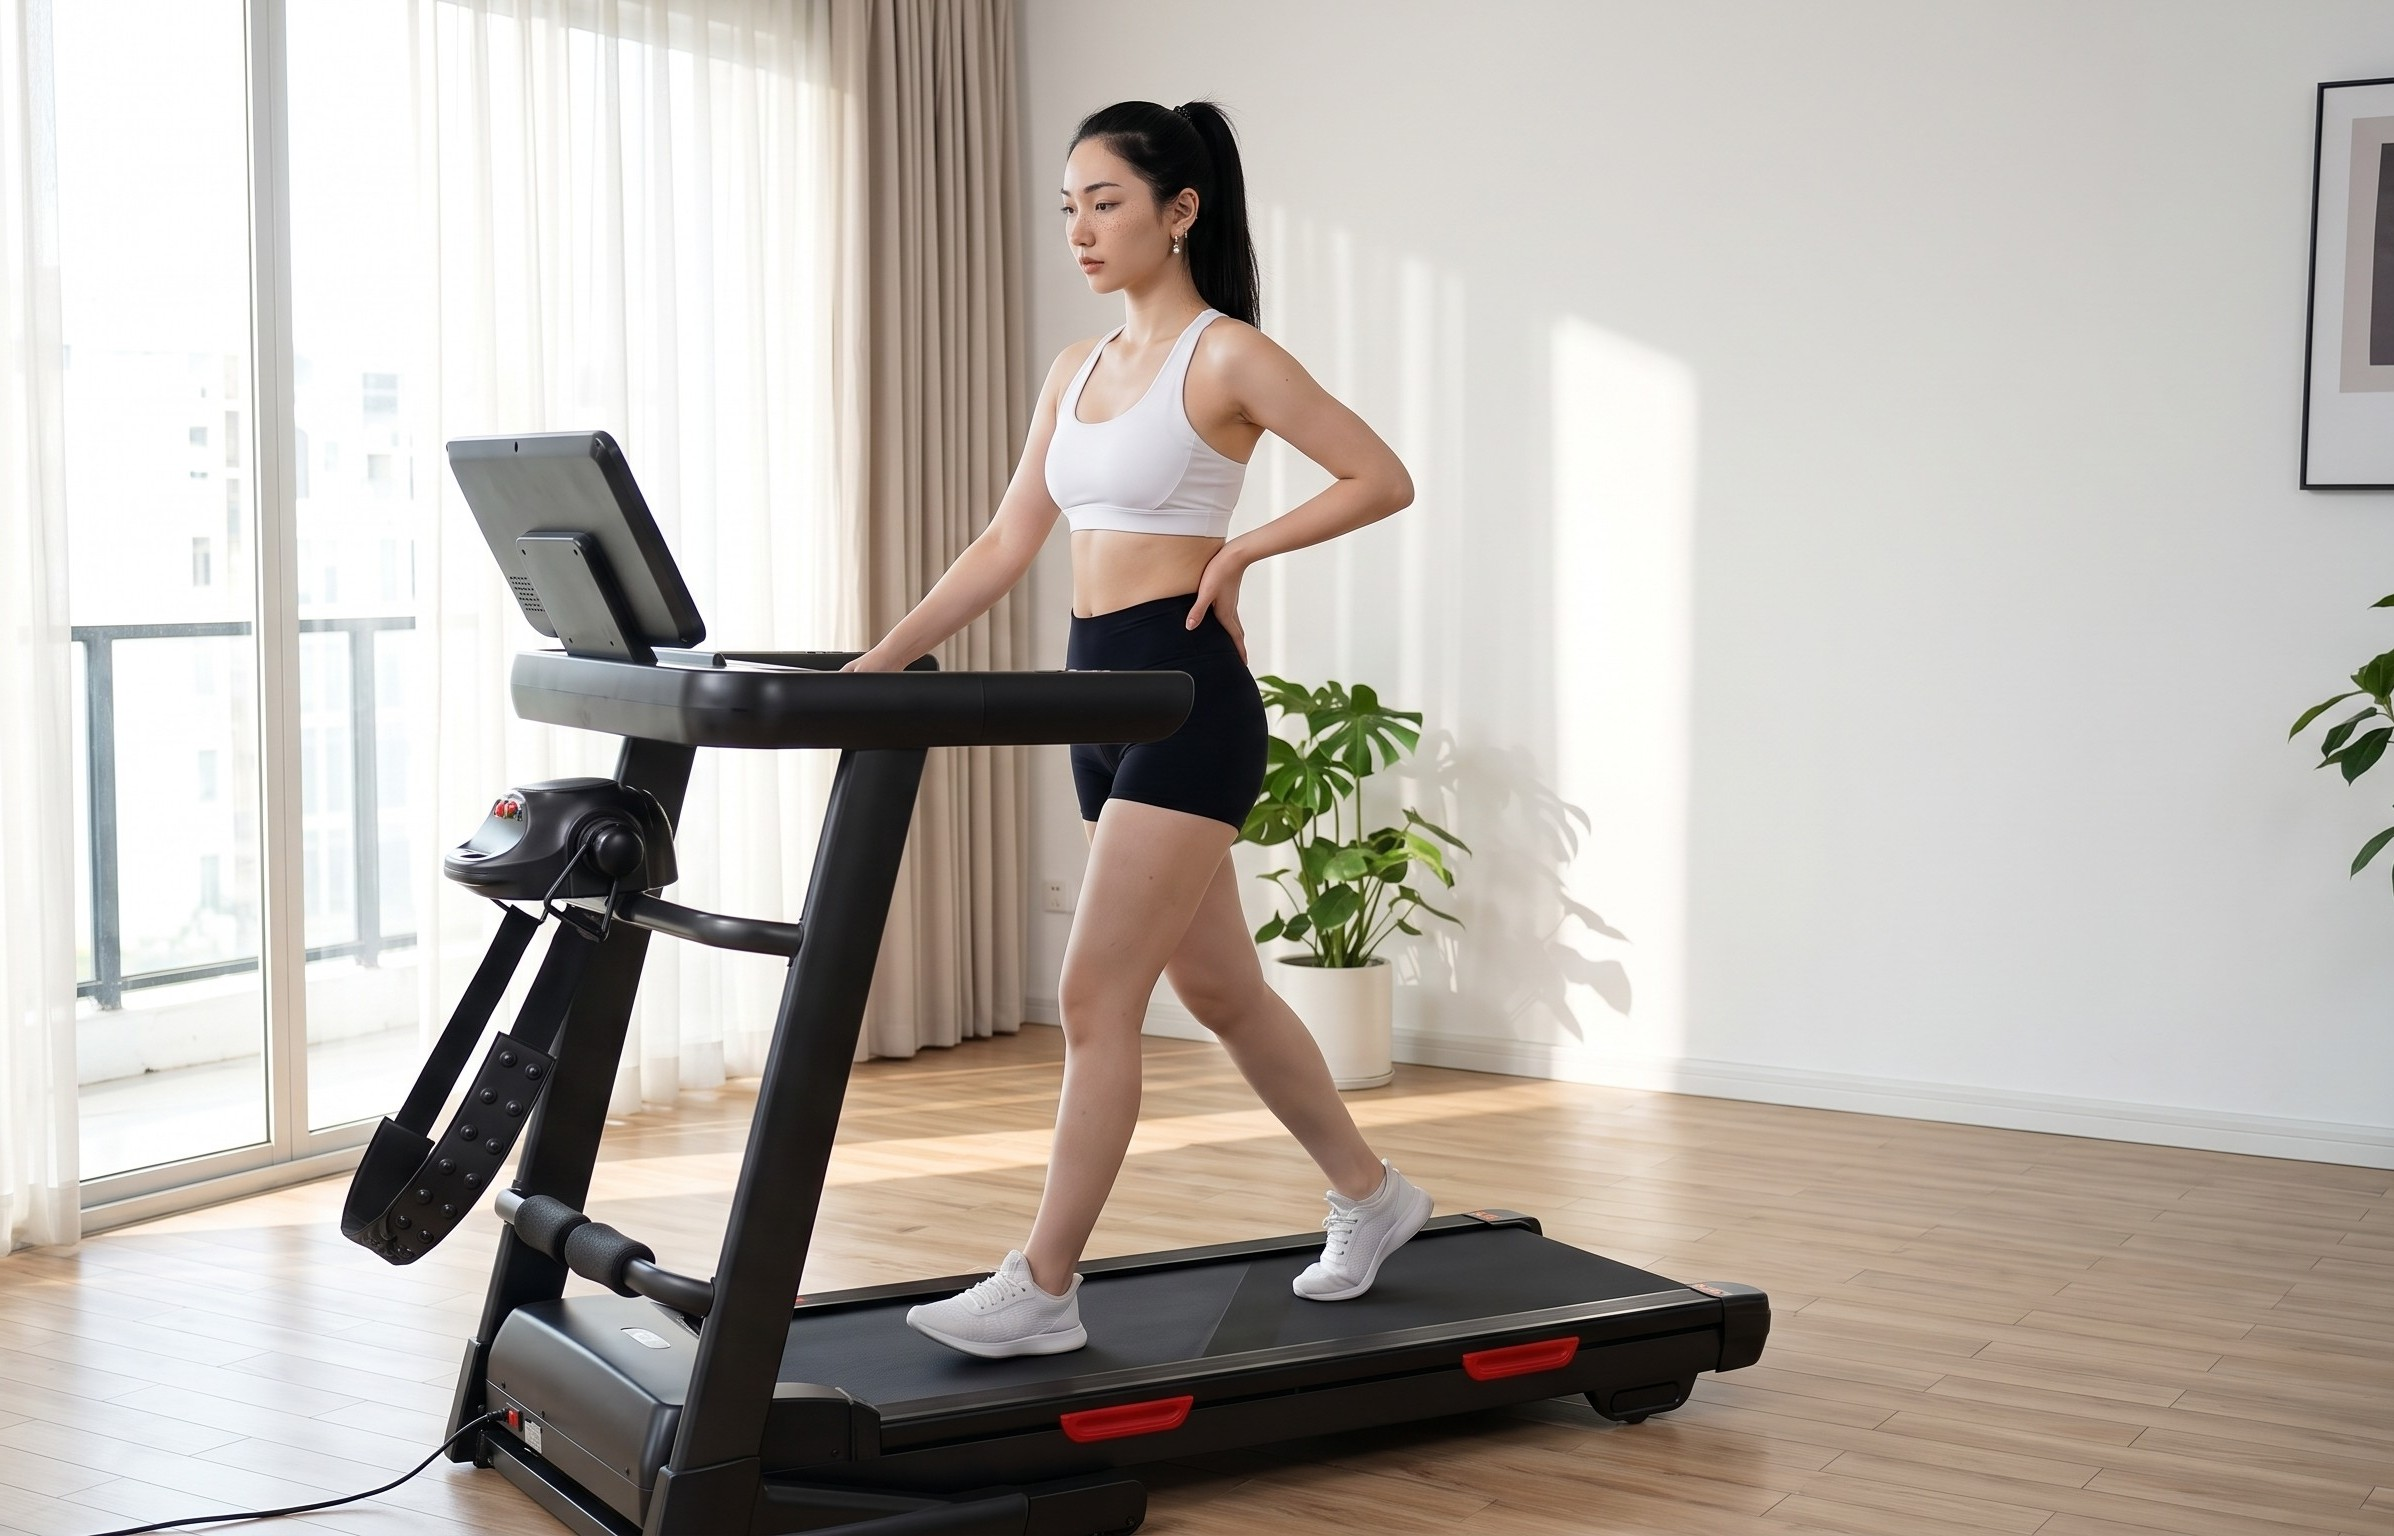
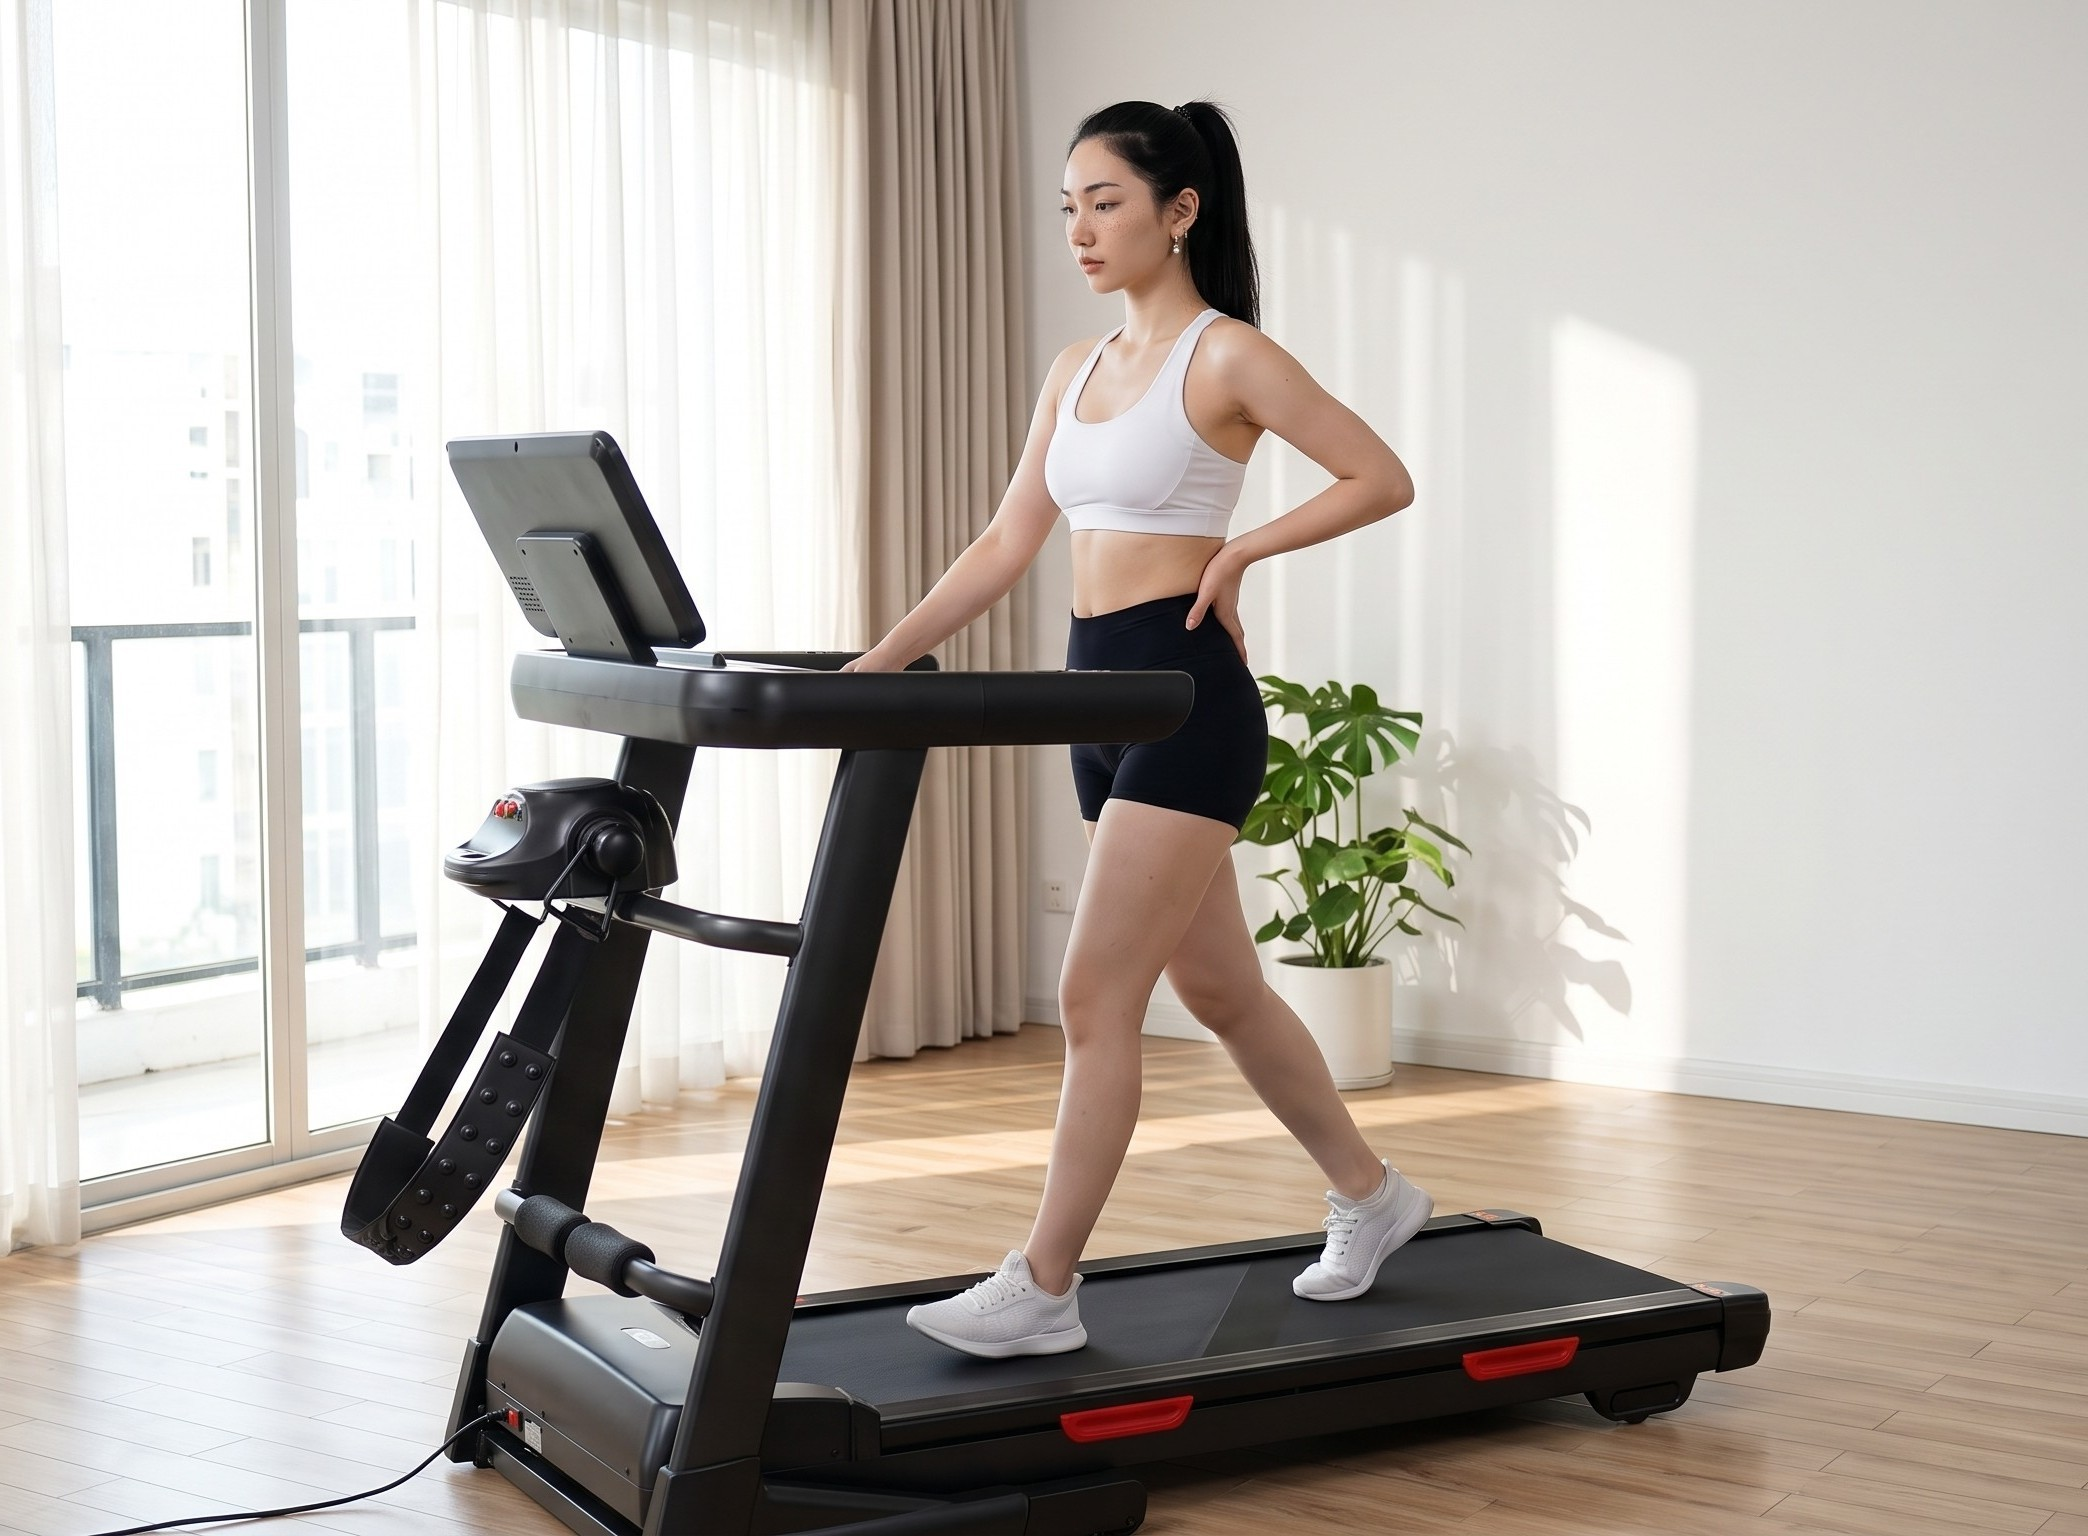
uk
edit 5

diff --git a/styles.css b/styles.css
@@ -39,7 +39,7 @@ img { max-width: 100%; display: block; }
 .brand-stack { flex: 0 0 auto; display: grid; justify-items: start; gap: 3px; }
 .brand { display: block; }
 .brand img { width: 154px; height: 34px; object-fit: contain; }
-.contact-phone { white-space: nowrap; font-size: 16px; font-weight: 900; line-height: 1; letter-spacing: -.02em; }
+.contact-phone { white-space: nowrap; font-size: 20px; font-weight: 900; line-height: 1; letter-spacing: -.03em; }
 .contact-phone:hover { color: var(--red); }
 .main-nav { display: flex; gap: 26px; margin-left: 20px; font-size: 14px; font-weight: 600; }
 .main-nav a { transition: color .2s ease; }
@@ -90,7 +90,11 @@ img { max-width: 100%; display: block; }
 .button:hover { transform: translateY(-2px); }
 .button-primary { color: #fff; background: var(--gradient); box-shadow: 0 13px 28px rgba(239, 28, 42, .22); }
 .whatsapp-button { color: #fff; background: linear-gradient(135deg, #128c4a, #25d366); box-shadow: 0 13px 28px rgba(18, 140, 74, .2); }
-.hero-benefits { margin-top: 62px; display: flex; gap: 28px; font-size: 12px; font-weight: 700; }
+.hero-actions { display: flex; flex-direction: column; align-items: flex-start; gap: 12px; }
+.hero-whatsapp { min-width: 260px; min-height: 68px; display: grid; gap: 3px; padding: 10px 24px; text-align: left; justify-items: start; }
+.hero-whatsapp span { font-size: 12px; font-weight: 750; opacity: .9; }
+.hero-whatsapp strong { font-size: 23px; line-height: 1.05; letter-spacing: -.025em; }
+.hero-benefits { margin-top: 34px; display: flex; gap: 28px; font-size: 12px; font-weight: 700; }
 .hero-benefits span { display: flex; align-items: center; gap: 9px; max-width: 145px; }
 .benefit-icon { flex: 0 0 26px; width: 26px; height: 26px; color: var(--red); fill: none; stroke: currentColor; stroke-width: 1.8; stroke-linecap: round; stroke-linejoin: round; }
 .hero-media { min-width: 0; position: relative; overflow: hidden; }
@@ -276,7 +280,7 @@ img { max-width: 100%; display: block; }
 
 @media (max-width: 580px) {
   .shell { width: calc(100% - 20px); }
-  .contact-phone { font-size: 12px; }
+  .contact-phone { font-size: 15px; }
   .hero { margin-top: 10px; border-radius: 20px; }
   .hero-copy { padding: 36px 20px 22px; }
   .hero h1 { font-size: 43px; }

diff --git a/index.html b/index.html
@@ -37,7 +37,13 @@
         <p class="eyebrow">Здоровье · комфорт · современный дом</p>
         <h1>UNIQKID —<br>больше, чем техника</h1>
         <p class="hero-lead">Тренажёры, мебель и техника для комфортной, активной и современной жизни.</p>
-        <a class="button button-primary" href="#catalog">Перейти в каталог <span>→</span></a>
+        <div class="hero-actions">
+          <a class="button whatsapp-button hero-whatsapp" href="https://wa.me/77072598547" target="_blank" rel="noopener noreferrer">
+            <span>Перейти на WhatsApp</span>
+            <strong>+7 (707) 259 85 47</strong>
+          </a>
+          <a class="button button-primary" href="#catalog">Перейти в каталог <span>→</span></a>
+        </div>
         <div class="hero-benefits" aria-label="Преимущества">
           <span><svg class="benefit-icon" viewBox="0 0 24 24" aria-hidden="true"><path d="M3 6h11v10H3zM14 9h4l3 3v4h-7zM7 19a2 2 0 1 0 0-4 2 2 0 0 0 0 4Zm11 0a2 2 0 1 0 0-4 2 2 0 0 0 0 4Z"/></svg> Быстрая доставка</span>
           <span><svg class="benefit-icon" viewBox="0 0 24 24" aria-hidden="true"><path d="M12 3 5 6v5c0 4.6 2.9 8.7 7 10 4.1-1.3 7-5.4 7-10V6l-7-3Z"/><path d="m9 12 2 2 4-5"/></svg> Гарантия на товары</span>
